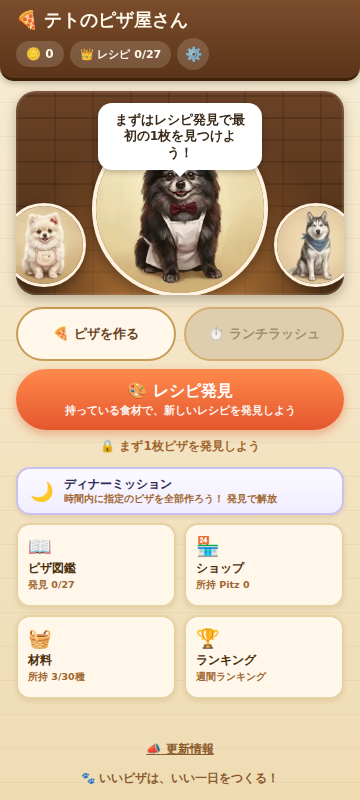
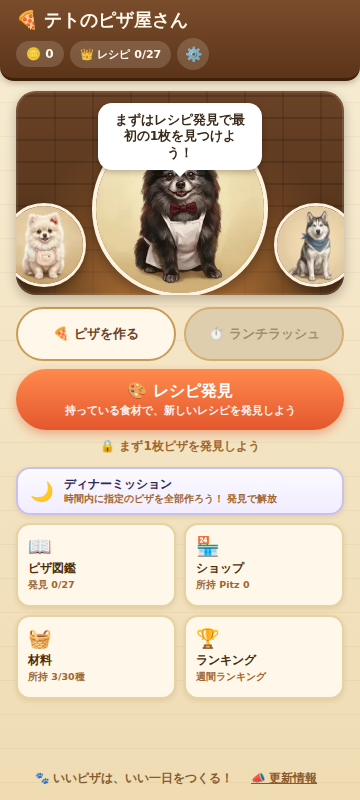
Refs #346: keep HOME footer height unchanged when adding 更新情報 entry
The footer button added 4px, shifting the HOME CTA skeleton between Dex 0/1 (layout contract
L-O, LC-4). Put the entry on the footer message's row with a 40px tap target whose negative
margin keeps layout height identical.

Claude-Session: https://claude.ai/code/session_01TXewdatHiNmFeaUUugzGdn

Changed region(s): [[0.0917, 0.9062, 0.8861, 1.0]]

diff --git a/src/screens/HomeScreen.tsx b/src/screens/HomeScreen.tsx
@@ -246,12 +246,14 @@ export function HomeScreen({
       </section>
 
       <footer className="home-footer">
-        {onOpenChangelog && (
-          <button type="button" className="home-footer__changelog" onClick={onOpenChangelog}>
-            {"\u{1F4E3}"} 更新情報
-          </button>
-        )}
-        <p className="home-footer__message">{"\u{1F43E}"} いいピザは、いい一日をつくる！</p>
+        <div className="home-footer__row">
+          <p className="home-footer__message">{"\u{1F43E}"} いいピザは、いい一日をつくる！</p>
+          {onOpenChangelog && (
+            <button type="button" className="home-footer__changelog" onClick={onOpenChangelog}>
+              {"\u{1F4E3}"} 更新情報
+            </button>
+          )}
+        </div>
       </footer>
     </div>
   );

diff --git a/src/App.css b/src/App.css
@@ -3595,16 +3595,26 @@
   text-align: center;
 }
 
+.home-footer__row {
+  display: flex;
+  align-items: center;
+  justify-content: center;
+  gap: 4px 10px;
+}
+
+/* Tap target is 40px tall but the negative block margin keeps its layout height at the message's
+   own line, so adding the entry never moves the HOME CTA skeleton (layout contract L-O). */
 .home-footer__changelog {
+  flex: 0 0 auto;
   border: none;
   background: transparent;
   color: #8a5a2c;
-  font-size: 12px;
+  font-size: 11.5px;
   font-weight: 700;
   text-decoration: underline;
   min-height: 40px;
-  padding: 6px 14px;
-  margin-bottom: 2px;
+  margin: -12px 0;
+  padding: 0 8px;
 }
 
 .home-footer__message {
